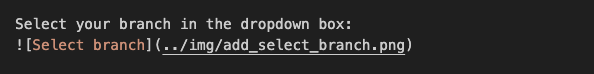
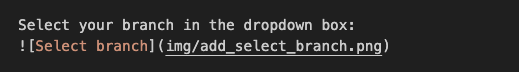
a bit of fine tuning

Changed region(s): [[0.0308, 0.5, 0.7707, 0.7778], [0.0, 0.2222, 0.6782, 0.4444]]

diff --git a/MkDocs/github_pages/docs/image_locations.md b/MkDocs/github_pages/docs/image_locations.md
@@ -9,25 +9,25 @@ Image locations and references to the images has to change:
 ## 1. Image location of lab images
 
 Previously it was needed to use absolute links to images which also had to include the name of the lab, e.g.:</br>
-![Image Link Before](../img/image_locations_05.png)
+![Image Link Before](img/image_locations_05.png)
 
 this needs to be changed to a relative link, as github pages add a first level in the URL being the name of the Github repository.
 Because of that the images needs to be located under the lab, e.g.:  
-![Image Link After](../img/image_locations_06.png)
+![Image Link After](img/image_locations_06.png)
 
 
 This also means that the image files must be in the labs `img` folder without an additional folder that needs to have the same name as the lab.
 Meaning this structure:
-![Image Location Before](../img/image_locations_01.png)
+![Image Location Before](img/image_locations_01.png)
 
 has to change to this structure:
-![Image Location After](../img/image_locations_02.png)
+![Image Location After](img/image_locations_02.png)
 
 ## 2. Edit build_all_mkdocs.sh
 
 Once the image locations have changed (in the folder structure and in the links in the md files) then we need to change the build script from:
-![Build script before](../img/image_locations_03.png)
+![Build script before](img/image_locations_03.png)
 
 by removing the last two lines per lab, hence do not copy images to a central (but unavailable for github pages) location:
-![Build script after](../img/image_locations_04.png)
+![Build script after](img/image_locations_04.png)
 

diff --git a/MkDocs/github_pages/docs/index.md b/MkDocs/github_pages/docs/index.md
@@ -2,10 +2,15 @@
 This lab will document the steps needed in order to use Github Pages to host the Maximo Labs,
 like:
 
-* Changes to the github repo
+* Changes to the github repo: [Github](../gh_pages/#1-create-a-new-branch-gh-pages)
 * Change image location in all md files and modify the build_all_mkdocs script
 * Edit mkdocs.yml files for all labs
 * ...
+
+
+* Changes to the github repo: [Github](gh_pages.md#1-create-a-new-branch-gh-pages)
+
+
 
 A minimized replica of the originial monitor-hands-on-labs has been used 
 in order to get the basics right.
@@ -16,8 +21,9 @@ called maximo-labs-test.
 
 After building the labs, so the /site directory has been build, then run this command to publish the site to Github Pages:
 
+```
     ghp-import -po site
-
+```
 ---
 
 **Updated: 2023-12-05**

diff --git a/MkDocs/github_pages/docs/gh_pages.md b/MkDocs/github_pages/docs/gh_pages.md
@@ -11,16 +11,16 @@ These are the steps to setup Github Pages in a Githup repository:
 You can create the gh-pages branch directly under Code | branches by pressing the `New brach` button.
 
 Navigating to Settings | Pages you should automatically see that Github Pages has been setup to use that branch.
-![Github Pages](../img/gh_pages_01.png)
+![Github Pages](img/gh_pages_01.png)
 
 ## 2. Edit all links to the sub labs
 
 The toplevel file `index.md` need to change all the links to the sub labs from absolute to relative links, e.g. change this:</br>
-![Lab LInk Before](../img/gh_pages_02.png)
+![Lab LInk Before](img/gh_pages_02.png)
 
 
 to:</br>
-![Lab LInk After](../img/gh_pages_03.png)
+![Lab LInk After](img/gh_pages_03.png)
 
 
 

diff --git a/MkDocs/contribute/docs/create_new.md b/MkDocs/contribute/docs/create_new.md
@@ -11,6 +11,7 @@ Creating a new lab follows the same process as under [Add content](../add_conten
 The only difference is in the first time you execute step "2. Make changes", so follow this process:
 
 * Follow step "1. Prepare your Git branch" under [Add content](../add_content/#1-prepare-your-git-branch).
+* Follow step "1. Prepare your Git branch" under [Add content](add_content.md#1-prepare-your-git-branch).
 * Come back here and run the below "Make first changes for new lab".
 * Go back to [Add content](../add_content/#3-commit-and-push-your-changes) and run from step 3.<br>(You are done here :-)
 
